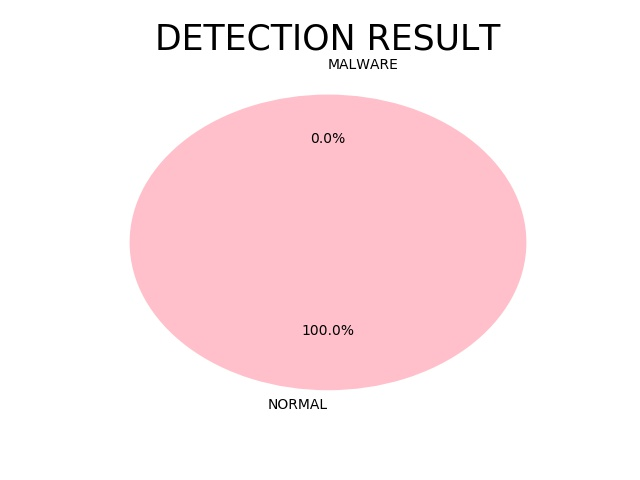
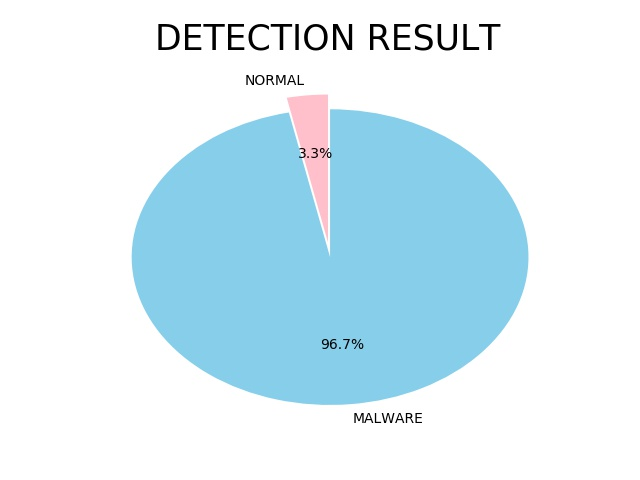
완성전 v1.3

diff --git a/PROJ_COD/FINAL/main.py b/PROJ_COD/FINAL/main.py
@@ -265,8 +265,16 @@ class Form(QtWidgets.QDialog):
             malwareCount = 0
             # 바이러스 토탈 돌리기
             for fname in flist:
+                print("[+]---------------------------------------------------------------------------------------->")
+                print("[+] file Path : ", fname)
                 dic = vt.get_mal_kind(fname)
                 if dic[0] > 4:
+                    machineRslt = fileMachine.getFIleMachine(fname)
+                    if machineRslt == "NORMAL":
+                        normalCount += 1
+                    else:
+                        malwareCount += 1
+                elif dic[0] == 0 and dic[1] == "ERROR":
                     machineRslt = fileMachine.getFIleMachine(fname)
                     if machineRslt == "NORMAL":
                         normalCount += 1

diff --git a/PROJ_COD/FINAL/Save_Learn_Data.py b/PROJ_COD/FINAL/Save_Learn_Data.py
@@ -1,3 +1,4 @@
+
 import glob
 
 import PROJ_COD.FINAL.Get_File_Info as getFileInfo
@@ -5,9 +6,9 @@ import PROJ_COD.FINAL.Get_VirusTotal as getVirustotal
 import PROJ_COD.FINAL.Get_File_Hash as getFileHash
 import PROJ_COD.FINAL.Get_MongoDB_Connection as mongoDB
 
-learnFiles = glob.glob("G:\\악성코드\\*.exe")
+# learnFiles = glob.glob("C:\\opt\\malware\\unsorted\\*")
 # learnFiles = glob.glob("G:\\exe파일\\*.exe")
-# learnFiles = glob.glob("G:\\exe파일\\새 폴더\\*.exe")
+learnFiles = glob.glob("G:\\exe파일\\새 폴더\\*.exe")
 # learnFiles = glob.glob("C:\\Users\\Administrator\\Downloads\\*.exe")
 
 def insertDataToDatabase():

diff --git a/PROJ_COD/FINAL/Get_Machine_Percentage.py b/PROJ_COD/FINAL/Get_Machine_Percentage.py
@@ -33,18 +33,14 @@ def getFIleMachine(filePath):
     del data2['kind']
     del data2['hash']
     del data2['detect']
-    print("{-} train_data  : ", train_data)
-    print("{-} train_label : ", train_label)
 
     data2 = list(data2.values())
     test_data.append(data2)
     test_label.append(label)
 
-    print("{-} test_data   : ", test_data)
-    print("{-} test_label  : ", test_label)
-
     # 데이터를 학습시키고 예측하기
     clf = svm.SVC()
     clf.fit(train_data, train_label)
     pre = clf.predict(test_data)
+    print("{-} PREDICTION  : ", pre[0])
     return pre[0]
